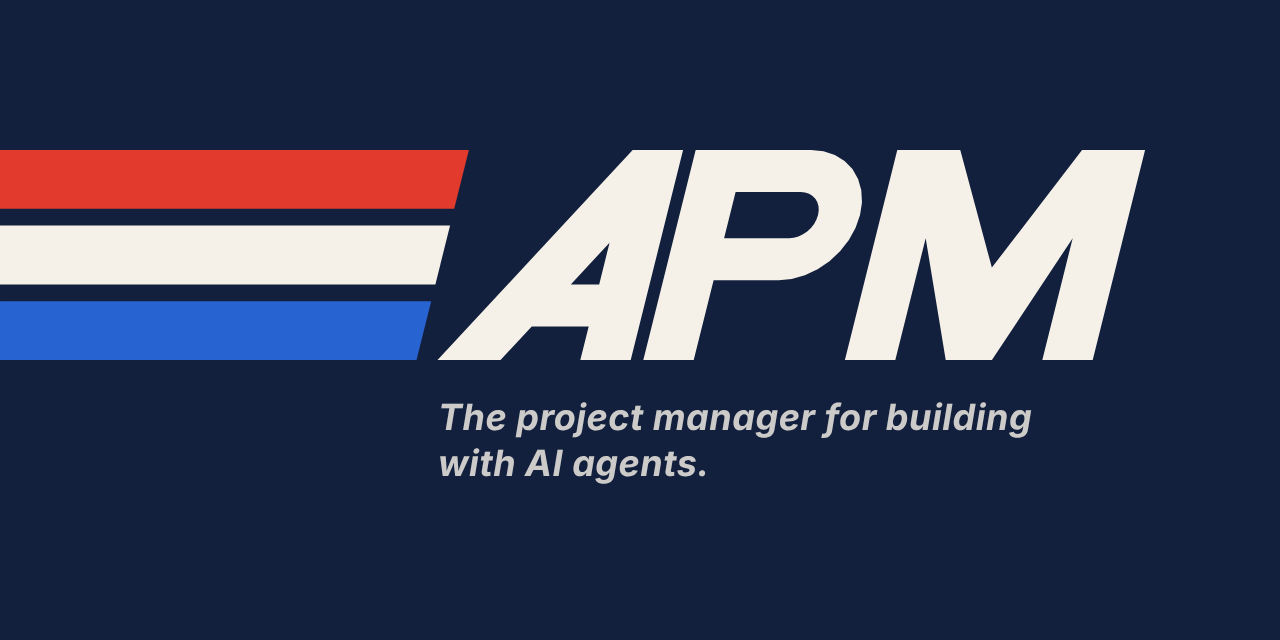
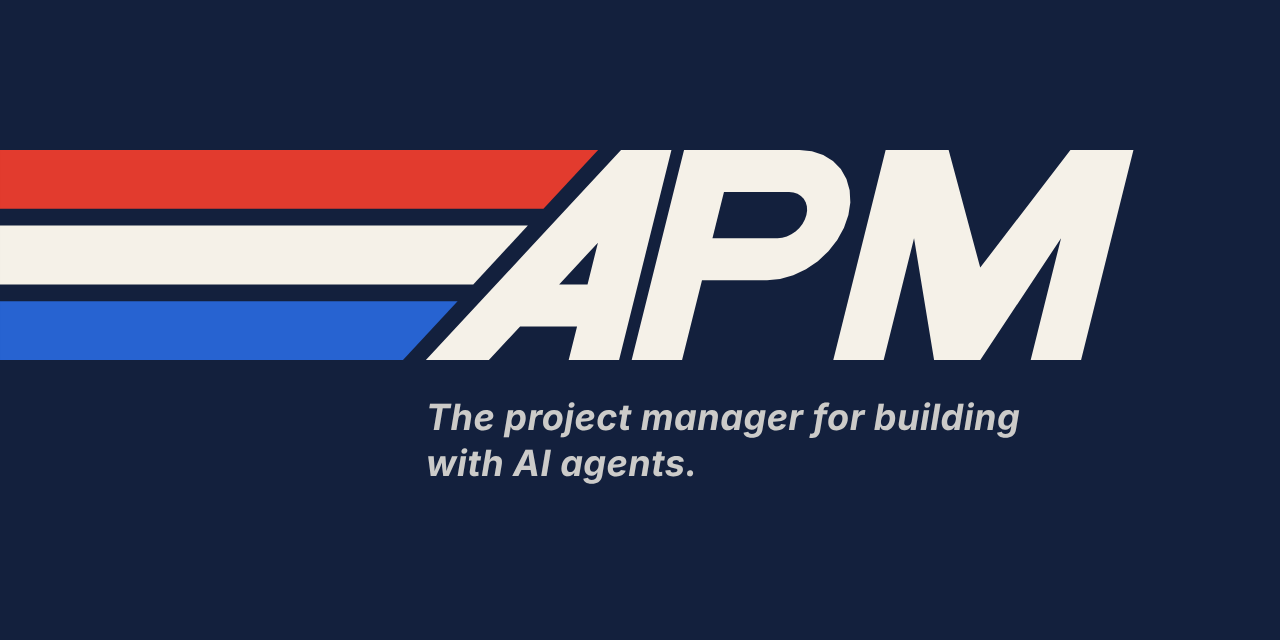
Cut the stripes parallel to the A's leg, so the gap to it is even
The stripes' ends followed the italic's slant, but the A's left leg
leans much further, so the gap between them widened towards the top.
They are now cut on the leg's own line, and the gap, measured square to
the cut, is as wide as the gaps between the stripes. The icon and the
favicon take the same cut.

Claude-Session: https://claude.ai/code/session_01WC5UzDCmxmqnZsMvC3zzz1

diff --git a/ui/src/brand.ts b/ui/src/brand.ts
@@ -1,23 +1,23 @@
 // Written by docs/brand/build.py: change the logo there, not here.
 
 export const LOGO = {
-  "width": 442.93,
+  "width": 431.85,
   "height": 100,
   "stripes": [
     {
-      "d": "M0.00,0.00 L120.93,0.00 L113.95,28.00 L0.00,28.00 Z",
+      "d": "M0.00,0.00 L176.93,0.00 L150.91,28.00 L0.00,28.00 Z",
       "fill": "#e23b2e"
     },
     {
-      "d": "M0.00,36.00 L111.96,36.00 L104.98,64.00 L0.00,64.00 Z",
+      "d": "M0.00,36.00 L143.48,36.00 L117.46,64.00 L0.00,64.00 Z",
       "fill": "#f5f1e8"
     },
     {
-      "d": "M0.00,72.00 L102.98,72.00 L96.00,100.00 L0.00,100.00 Z",
+      "d": "M0.00,72.00 L110.02,72.00 L84.00,100.00 L0.00,100.00 Z",
       "fill": "#2763d1"
     }
   ],
-  "word": "M106.00,100.00 L198.93,0.00 L222.93,0.00 L198.00,100.00 L174.00,100.00 L177.99,84.00 L150.87,84.00 L136.00,100.00 Z M169.46,64.00 L182.98,64.00 L187.93,44.12 Z M204.00,100.00 L228.93,0.00 L283.93,0.00 L289.83,0.60 L295.21,2.36 L299.85,5.22 L303.59,9.08 L306.27,13.78 L307.80,19.14 L308.12,24.95 L307.20,31.00 L305.10,37.05 L301.89,42.86 L297.69,48.22 L292.66,52.92 L287.00,56.78 L280.93,59.64 L274.67,61.40 L268.47,62.00 L237.47,62.00 L228.00,100.00 Z M247.95,20.00 L278.95,20.00 L281.04,20.21 L282.95,20.84 L284.60,21.85 L285.92,23.22 L286.87,24.89 L287.42,26.79 L287.53,28.85 L287.20,31.00 L286.46,33.15 L285.32,35.21 L283.83,37.11 L282.04,38.78 L280.03,40.15 L277.88,41.16 L275.66,41.79 L273.46,42.00 L242.46,42.00 Z M300.00,100.00 L324.93,0.00 L354.93,0.00 L369.97,56.00 L412.93,0.00 L442.93,0.00 L418.00,100.00 L394.00,100.00 L408.46,42.00 L370.00,100.00 L348.00,100.00 L338.46,42.00 L324.00,100.00 Z",
+  "word": "M94.92,100.00 L187.85,0.00 L211.85,0.00 L186.92,100.00 L162.92,100.00 L166.91,84.00 L139.79,84.00 L124.92,100.00 Z M158.38,64.00 L171.90,64.00 L176.85,44.12 Z M192.92,100.00 L217.85,0.00 L272.85,0.00 L278.75,0.60 L284.13,2.36 L288.77,5.22 L292.51,9.08 L295.19,13.78 L296.72,19.14 L297.04,24.95 L296.12,31.00 L294.02,37.05 L290.81,42.86 L286.61,48.22 L281.58,52.92 L275.92,56.78 L269.85,59.64 L263.59,61.40 L257.40,62.00 L226.40,62.00 L216.92,100.00 Z M236.87,20.00 L267.87,20.00 L269.96,20.21 L271.87,20.84 L273.52,21.85 L274.84,23.22 L275.79,24.89 L276.34,26.79 L276.45,28.85 L276.12,31.00 L275.38,33.15 L274.24,35.21 L272.75,37.11 L270.96,38.78 L268.96,40.15 L266.80,41.16 L264.58,41.79 L262.38,42.00 L231.38,42.00 Z M288.92,100.00 L313.85,0.00 L343.85,0.00 L358.89,56.00 L401.85,0.00 L431.85,0.00 L406.92,100.00 L382.92,100.00 L397.38,42.00 L358.92,100.00 L336.92,100.00 L327.38,42.00 L312.92,100.00 Z",
   "white": "#f5f1e8",
   "navy": "#13203d"
 } as const;

diff --git a/docs/brand/build.py b/docs/brand/build.py
@@ -30,8 +30,13 @@ H = 100  # cap height: the stripes fill it too
 SLANT = math.tan(math.radians(14))  # the italic: x leans this far per unit of height
 STEM = 24
 STRIPE, STRIPE_GAP = 28, 8  # three stripes and two gaps make the cap height
-STRIPE_LENGTH = 96  # the shortest (bottom) stripe; each above it reaches further on the slant
-GAP = 10  # between the stripes and the A
+A_WIDTH, A_LEG = 92, 30
+LEG_SLOPE = (A_WIDTH - STEM) / H + SLANT
+"""How far the A's left leg leans per unit of height, italic included. The stripes' ends are cut
+on the same line, so the gap between them and the A is even all the way up."""
+STRIPE_LENGTH = 84  # the bottom edge of the bottom stripe; the rest reach further on the leg's line
+GAP = STRIPE_GAP / math.cos(math.atan(LEG_SLOPE))
+"""Across the stripes' ends to the A: as wide, measured square to the cut, as between stripes."""
 
 
 def _italic(points: list[tuple[float, float]], x0: float) -> list[tuple[float, float]]:
@@ -44,7 +49,7 @@ def _poly(points: Sequence[tuple[float, float]]) -> str:
 
 
 def _a(x0: float) -> tuple[str, float]:
-    w, leg = 92, 30
+    w, leg = A_WIDTH, A_LEG
     top = w - STEM
 
     def inner(y: float) -> float:  # the leg's inner edge, `leg` right of its outer edge
@@ -82,8 +87,8 @@ def _m(x0: float) -> tuple[str, float]:
 
 
 def stripes(x0: float = 0, length: float = STRIPE_LENGTH) -> list[tuple[str, str]]:
-    """The three stripes, filling the cap height, their right ends on the italic's slant:
-    (path, colour) each.
+    """The three stripes, filling the cap height, their right ends cut parallel to the A's left
+    leg: (path, colour) each.
     """
     out = []
     for i, colour in enumerate(STRIPES):
@@ -92,8 +97,8 @@ def stripes(x0: float = 0, length: float = STRIPE_LENGTH) -> list[tuple[str, str
         right = x0 + length
         pts = [
             (x0, top),
-            (right + (H - top) * SLANT, top),
-            (right + (H - bottom) * SLANT, bottom),
+            (right + (H - top) * LEG_SLOPE, top),
+            (right + (H - bottom) * LEG_SLOPE, bottom),
             (x0, bottom),
         ]
         out.append((_poly(pts), colour))
@@ -140,17 +145,21 @@ def badge() -> str:
     return svg(w, h, f'{plate}<g transform="translate({pad},{pad})">{logo(WHITE)}</g>')
 
 
+ICON_LENGTH = 70
+"""The stripes alone, as the icon: a little shorter than in the logo, so they fill a square."""
+
+
 def mark(size: float, *, square: bool = False) -> str:
     """The stripes alone on a navy square: the icon. `square` is full bleed, for app icons the
     system rounds or crops itself, with the stripes inside the safe zone.
     """
     inset = 0.24 if square else 0.17
     span = size * (1 - 2 * inset)  # the stripes' width, slant included
-    scale = span / (STRIPE_LENGTH * 1.4 + H * SLANT)
+    scale = span / (ICON_LENGTH + H * LEG_SLOPE)
     x = (size - span) / 2
     y = (size - H * scale) / 2
     corner = 0 if square else size * 0.22
-    stripes_body = _stripes_svg(0, STRIPE_LENGTH * 1.4)
+    stripes_body = _stripes_svg(0, ICON_LENGTH)
     return (
         f'<rect width="{size}" height="{size}" rx="{corner:.2f}" fill="{NAVY}"/>'
         f'<g transform="translate({x:.2f},{y:.2f}) scale({scale:.4f})">{stripes_body}</g>'
@@ -159,8 +168,8 @@ def mark(size: float, *, square: bool = False) -> str:
 
 def favicon() -> str:
     """The icon at 32: the stripes larger in the square, so they still read at 16."""
-    scale = 24 / (STRIPE_LENGTH * 1.25 + H * SLANT)
-    body = _stripes_svg(0, STRIPE_LENGTH * 1.25)
+    scale = 24 / (ICON_LENGTH + H * LEG_SLOPE)
+    body = _stripes_svg(0, ICON_LENGTH)
     return (
         f'<rect width="32" height="32" rx="7" fill="{NAVY}"/>'
         f'<g transform="translate(4,{(32 - H * scale) / 2:.2f}) scale({scale:.4f})">{body}</g>'
